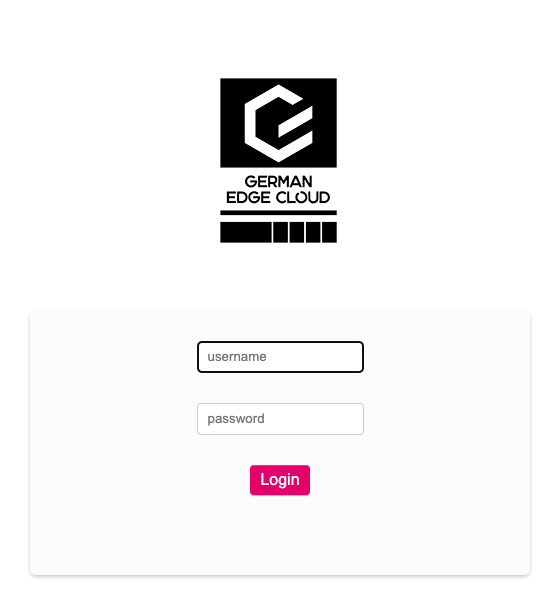
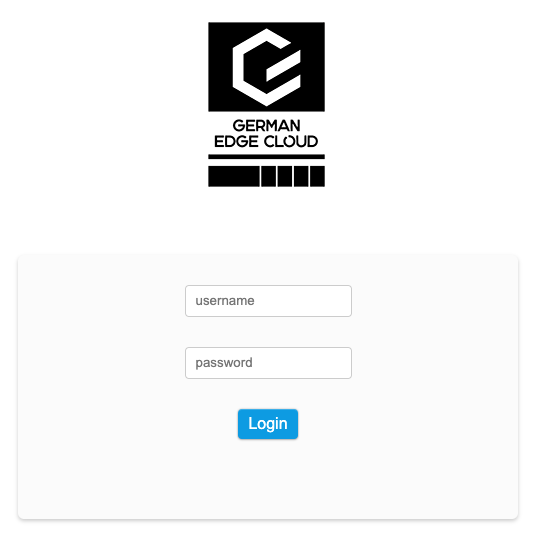
Fix k8s version mentioned in OCCM migration docs and update the dex login screenshot (#85)
* Change k8s version mentioned in OCCM migration doc

Since the Cinder CSI migration is enabled by default on 1.21 the cluster
migration should be migrated before the 1.21 update.

* Update dex login screenshot

diff --git a/docs/_imke/clusterlifecycle/clustermigrations/externalcloudprovider/index.de.md b/docs/_imke/clusterlifecycle/clustermigrations/externalcloudprovider/index.de.md
@@ -9,7 +9,7 @@ parent: Cluster Lebenszyklus
 
 Es ist jetzt möglich alle Cluster die noch den In-Tree Cloud Provider verwenden, zum External Cloud Provider zu migrieren.
 
-**Das muss bis spätestens vor dem Kubernetes 1.22 Update geschehen**, in dieser Version wird der In-Tree Provider entfernt.
+**Das muss bis spätestens vor dem Kubernetes 1.21 Update geschehen**, in dieser Version wird der In-Tree Provider entfernt.
 
 Auf der Clusterdetailseite ist der Providerstatus zu sehen.
 

diff --git a/docs/_imke/clusterlifecycle/clustermigrations/externalcloudprovider/index.en.md b/docs/_imke/clusterlifecycle/clustermigrations/externalcloudprovider/index.en.md
@@ -8,7 +8,7 @@ parent: Cluster Lifecycle
 
 It is now possible to migrate cluster that still uses the in-tree to the external cloud provider.
 
-**This is required to be done before the upgrade to Kubernetes v1.22** as the in-tree provider will be removed in that version.
+**This is required to be done before the upgrade to Kubernetes v1.21** as the in-tree provider will be removed in that version.
 
 You can verify the if you need to migrate in the cluster details page.
 
